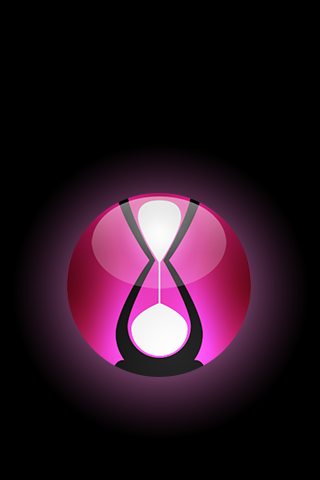
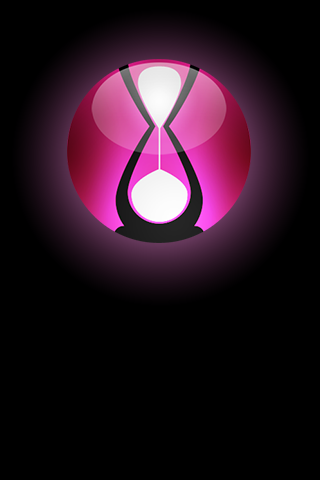
Settings Timer App
- Are we shipping this?
- Tweaked the labels for readability
- Better layout

diff --git a/iotas/www/apps/settings/timer/index.html b/iotas/www/apps/settings/timer/index.html
@@ -58,11 +58,11 @@
 				
 				<form>
 					
-			    <label for="time_start">Turn on:</label>
-			    <input type="time" data-clear-btn="false" name="time_start" id="time_start" value="">
-			    
-			    <label for="time_stop">Turn off:</label>
-			    <input type="time" data-clear-btn="false" name="time_stop" id="time_stop" value="">
+			    <label for="time_start">On</label>
+			    <input type="time" name="time_start" id="time_start" value="">
+					
+			    <label for="time_stop">Off</label>
+			    <input type="time" name="time_stop" id="time_stop" value="">
 			    
 				</form>
 				

diff --git a/iotas/www/apps/settings/timer/timer.css b/iotas/www/apps/settings/timer/timer.css
@@ -11,25 +11,14 @@
 }
 
 #timer .times {
-	margin: 0 auto;
-	width: 175px;
+	margin: 200px auto 0;
+	width: 50%;
 }
 
-#timer .timerset {
-	margin-left: 37px;
-	position: absolute;
-	bottom: 20px;
-}
-
-#timer label.ui-input-text {
+#timer .times form label {
 	color: #fff;
-	font-size: 12px;
-	text-shadow: none;
 }
 
-#timer input.ui-input-text, 
-#timer textarea.ui-input-text {
-	color: #fff;
-	font-size: 12px;
-	text-shadow: none;
+#timer #timerset {
+	margin-top: 35px;
 }
